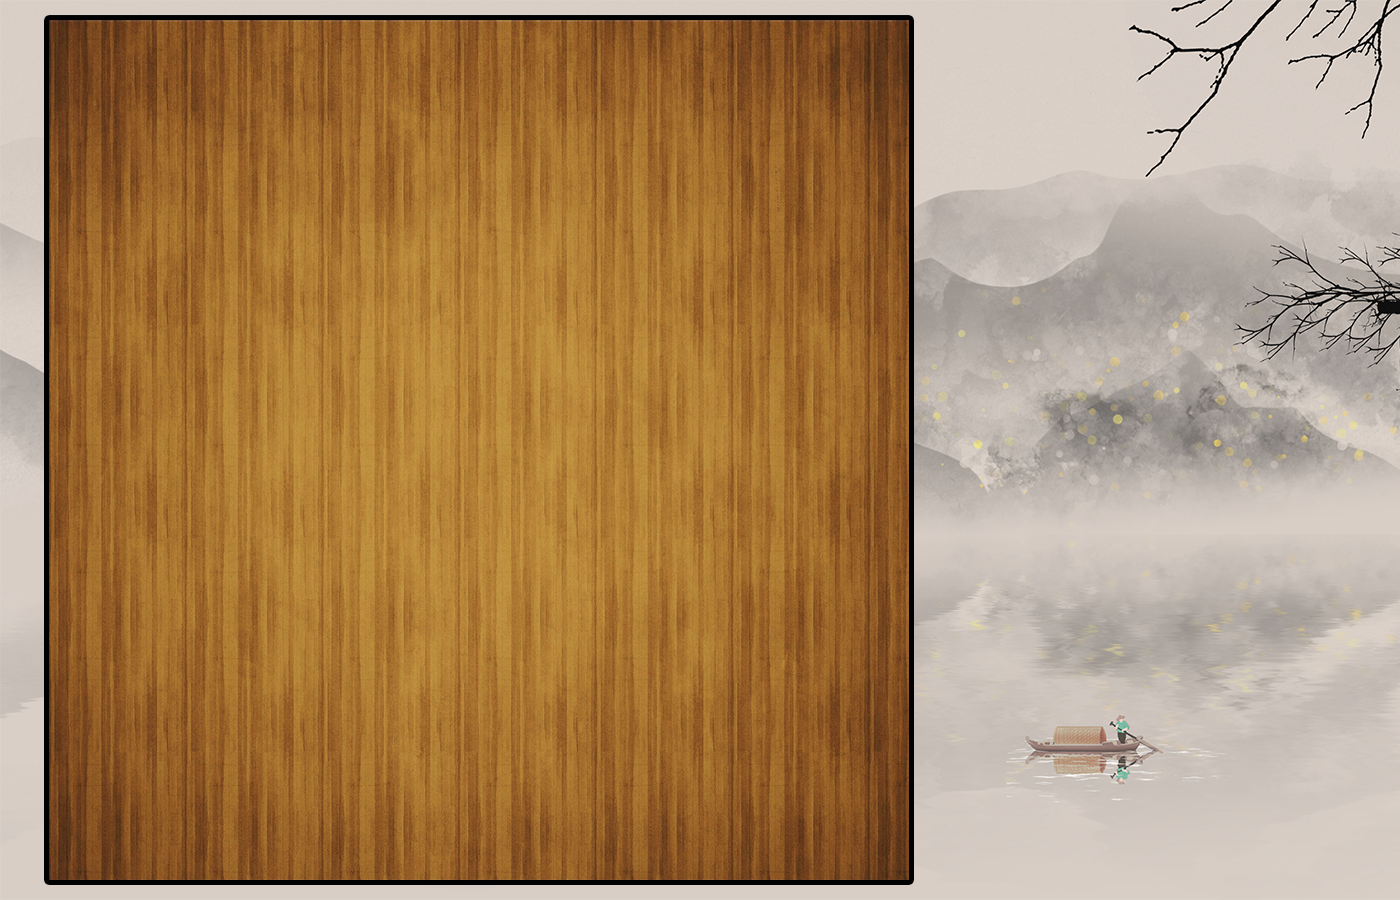
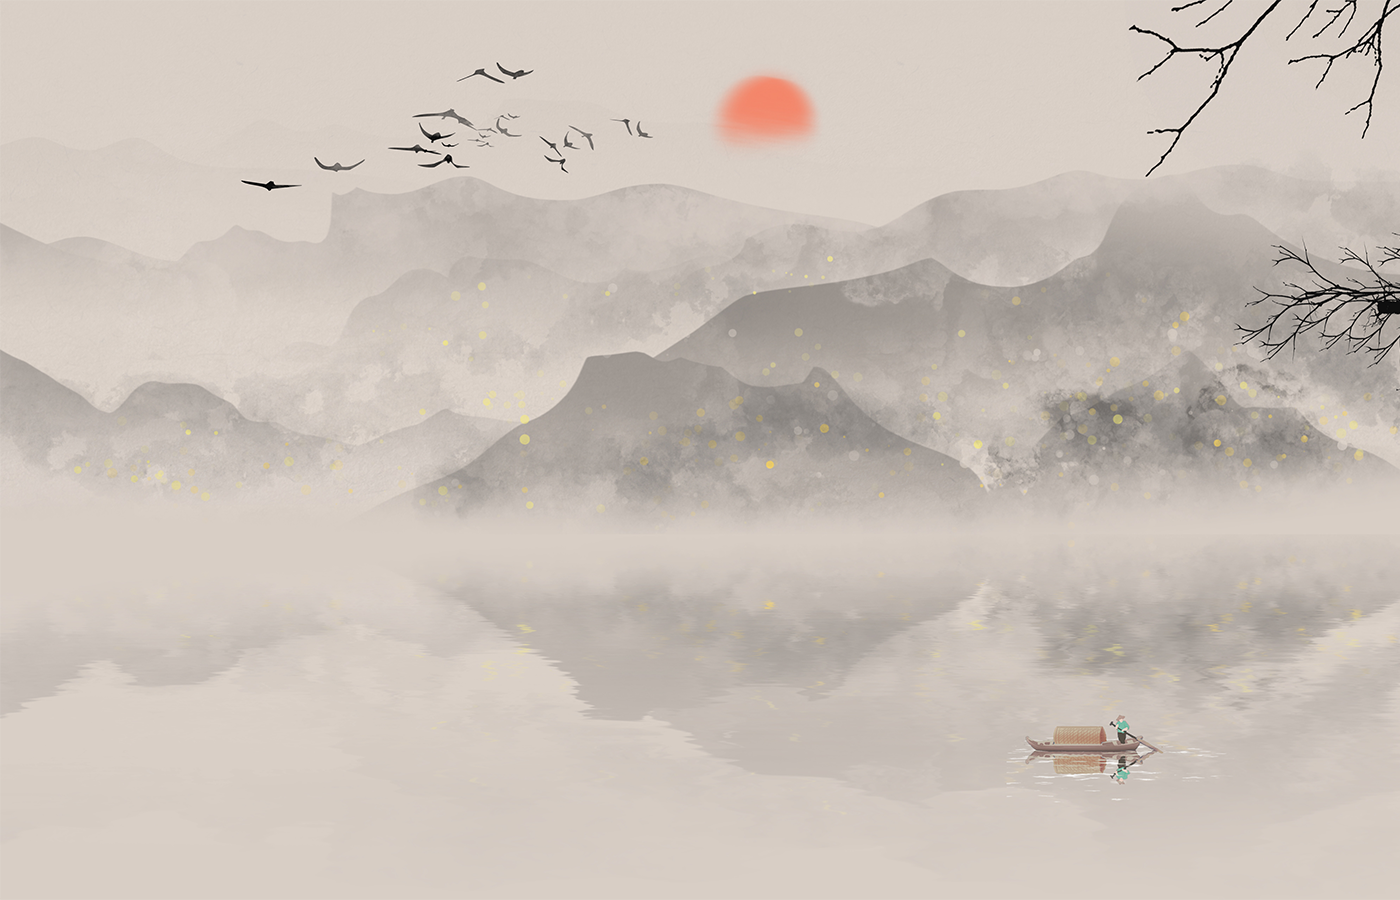
Obj. orntd. now; field in process

diff --git a/CourseWork/GameObject.cpp b/CourseWork/GameObject.cpp
@@ -1,0 +1,36 @@
+#include "GameObject.h"
+
+GameObject::GameObject() 
+{
+	size = 0;
+
+	position.x = 0;
+	position.y = 0;
+}
+
+GameObject::GameObject(Parameter sizeToSet, sf::Vector2i positionToSet, std::string textureName)
+{
+	size = sizeToSet;
+
+	if (positionToSet.x < 0 or positionToSet.y < 0) throw std::invalid_argument("Game object position init error.");
+
+	position.x = positionToSet.x;
+	position.y = positionToSet.y;
+
+
+	if (!texture.loadFromFile(textureName)) throw std::runtime_error("Game object texture init error.");
+}
+
+GameObject::~GameObject() {}
+
+// void GameObject::loadTexture(std::string fileName) { if (!texture.loadFromFile(fileName)) throw std::runtime_error("Error while texture loading."); }
+
+void GameObject::setSprite() 
+{ 
+	sprite.setTexture(texture); 
+}
+
+void GameObject::draw(sf::RenderWindow* window) 
+{
+	window->draw(sprite);
+}

diff --git a/CourseWork/Parameter.cpp b/CourseWork/Parameter.cpp
@@ -1,0 +1,36 @@
+#include "Parameter.h"
+
+Parameter::Parameter() { x = 0; y = 0; }
+
+Parameter::Parameter(unsigned xToSet, unsigned yToSet)
+{
+	if (xToSet < 0 or yToSet < 0) throw std::invalid_argument("Parameter values init error.");
+	
+	x = xToSet;
+	y = yToSet;
+}
+Parameter::~Parameter() {}
+
+Parameter& Parameter::operator=(const Parameter& other)
+{
+	this->x = other.x;
+	this->y = other.y;
+
+	return *this;
+}
+
+Parameter& Parameter::operator=(const unsigned other)
+{
+	if (other < 0) throw std::invalid_argument("Parameter unsigned assignment error.");
+
+	this->x = other;
+	this->y = other;
+}
+
+bool Parameter::operator>(const Parameter& other)
+{
+	return this->x > other.x or this->y > other.y;
+}
+
+unsigned Parameter::getX() { return x; }
+unsigned Parameter::getY() { return y; }

diff --git a/CourseWork/App.cpp b/CourseWork/App.cpp
@@ -1,0 +1,38 @@
+#include "App.h"
+
+App::App()
+{
+	// create window
+	// 1400, 900 - window sizes (W, H) - were picked up to suit 
+	window = new sf::RenderWindow(sf::VideoMode(1400, 900), "Rendzu!", sf::Style::Default);
+
+	// create background 
+	// 
+	background = new GameObject({ 1400, 900 }, sf::Vector2i(1000, 1000), "background.png");
+	background->setSprite();
+
+	// create field
+	field = new GameObject({ 860, 860 }, sf::Vector2i(50, 20), "field.png");
+
+	// main loop
+	while (window->isOpen()) {
+		while (window->pollEvent(event)) {
+			switch (event.type) {
+			case sf::Event::Closed:
+				window->close();
+				break;
+			}
+		}
+
+		window->clear();
+		background->draw(window);
+		window->display();
+	}
+}
+
+App::~App()
+{
+	delete window;
+	delete background;
+	delete field;
+}

diff --git a/CourseWork/Source.cpp b/CourseWork/Source.cpp
@@ -1,29 +1,10 @@
 #include <SFML/Graphics.hpp>
+#include "App.h"
 
-#define WINDOW_WIDTH 1400
-#define WINDOW_HEIGHT 900
+
 
 int main()
 {
-	sf::RenderWindow window(sf::VideoMode(WINDOW_WIDTH, WINDOW_HEIGHT), "Rendzu!", sf::Style::Default);
-	sf::Event event;
-	
-	sf::Texture backgroundTexture;
-	backgroundTexture.loadFromFile("background.png");
-	sf::Sprite background(backgroundTexture);
-
-	// main loop
-	while (window.isOpen()) {
-		while (window.pollEvent(event)) {
-			switch (event.type) {
-			case sf::Event::Closed:
-				window.close();
-				break;
-			}
-		}
-
-		window.draw(background);
-		window.display();
-	}
+	App* app = new App();
 	return 0;
 }

diff --git a/CourseWork/Parameter.h b/CourseWork/Parameter.h
@@ -1,0 +1,25 @@
+#pragma once
+#include <stdexcept>
+
+class Parameter {
+private:
+	unsigned x;
+	unsigned y;
+
+public:
+	Parameter();
+	Parameter(unsigned, unsigned);
+	~Parameter();
+
+	Parameter& operator = (const Parameter&);
+	Parameter& operator= (const unsigned);
+	// true if the rectangle, formed with 
+	// the (0; 0) dot (left upper window corner) and
+	// the (rightOperand.x; rightOperand.y) dot
+	// doesn't contain the (leftOperand.x; leftOperand.y) dot
+	bool operator > (const Parameter&);
+
+	unsigned getX();
+	unsigned getY();
+};
+

diff --git a/CourseWork/GameObject.h b/CourseWork/GameObject.h
@@ -1,0 +1,24 @@
+#pragma once
+#include <SFML/Graphics.hpp>
+#include "Parameter.h"
+
+class GameObject {
+private:
+	Parameter size;
+	sf::Vector2i position;
+
+	sf::Texture texture;
+	sf::Sprite sprite;
+
+public:
+	// Implementors
+	GameObject();
+	GameObject(Parameter sizeToSet, sf::Vector2i positionToSet, std::string textureName);
+	~GameObject();
+
+	// Methods
+	//void loadTexture(std::string);
+	void setSprite();
+	void draw(sf::RenderWindow*);
+};
+

diff --git a/CourseWork/App.h b/CourseWork/App.h
@@ -1,0 +1,18 @@
+#pragma once
+#include <SFML/Graphics.hpp>
+#include "GameObject.h"
+
+class App {
+private:
+	sf::RenderWindow* window;
+	sf::Event event;
+
+	GameObject* background;
+	GameObject* field;
+
+
+public:
+	App();
+	~App();
+};
+
